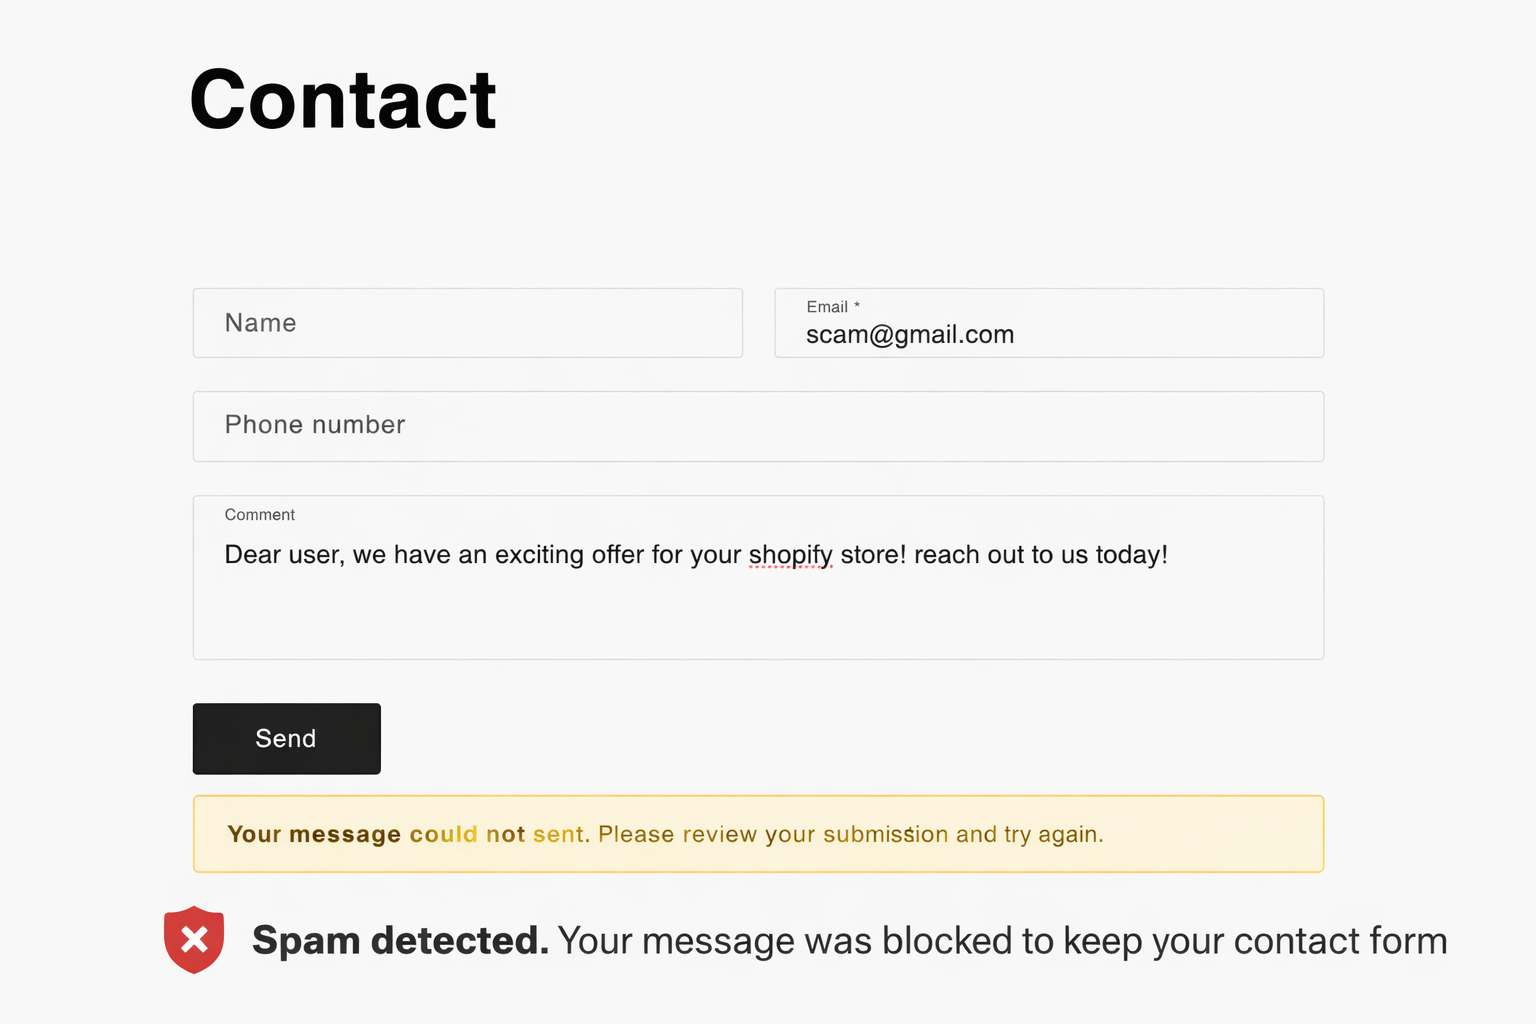
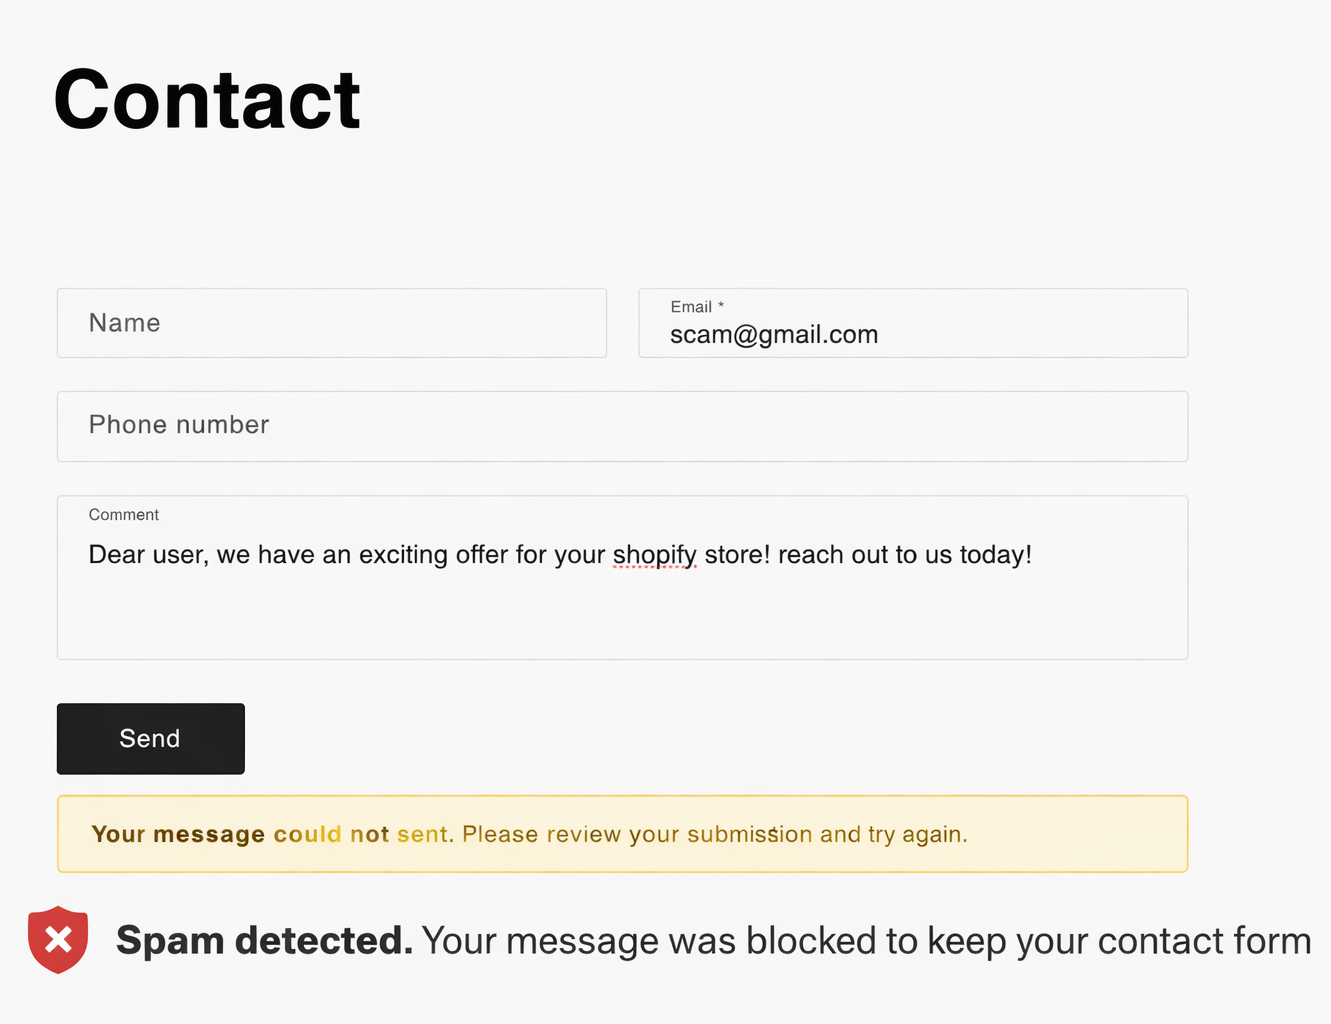
feat: Add theme extension onboarding guide and improve landing page layout
Adds a Setup Guide section to the admin dashboard with step-by-step
instructions and a deep link to the theme editor, meeting Shopify's
onboarding requirements for theme app extensions. Also improves the
landing page screenshot layout.

diff --git a/app/routes/app._index.tsx b/app/routes/app._index.tsx
@@ -164,6 +164,45 @@ export default function Index() {
         {enabled ? "Disable Protection" : "Enable Protection"}
       </s-button>
 
+      <s-section heading="Setup Guide">
+        <s-stack direction="block" gap="base">
+          <s-paragraph>
+            <strong>Step 1:</strong> Enable spam protection using the button
+            above.
+          </s-paragraph>
+          <s-paragraph>
+            <strong>Step 2:</strong> Add the FormGuard app embed to your theme.
+            Click the button below to open the theme editor, then ensure the
+            FormGuard toggle is turned on.
+          </s-paragraph>
+          <s-paragraph>
+            <strong>Step 3:</strong> (Optional) Add blocked keywords below to
+            filter specific words, phrases, or email addresses.
+          </s-paragraph>
+          <div style={{ marginTop: "8px" }}>
+            <s-button
+              variant="primary"
+              onClick={() =>
+                open(
+                  "shopify:admin/themes/current/editor?context=apps",
+                  "_top",
+                )
+              }
+            >
+              Open Theme Editor
+            </s-button>
+          </div>
+          <s-paragraph>
+            <s-text variant="subdued">
+              FormGuard works automatically once enabled. It adds invisible
+              protection to your contact form — no changes to your theme are
+              needed. To remove it, simply toggle the app embed off in the theme
+              editor.
+            </s-text>
+          </s-paragraph>
+        </s-stack>
+      </s-section>
+
       <s-section heading="Spam Protection">
         <s-paragraph>
           FormGuard protects your contact form with 3 layers: honeypot field,

diff --git a/app/routes/_index/route.tsx b/app/routes/_index/route.tsx
@@ -62,11 +62,6 @@ export default function App() {
           alt="FormGuard admin dashboard showing spam stats and blocked keywords"
           className={styles.screenshotLarge}
         />
-        <img
-          src="/blocked1.png"
-          alt="Contact form with spam submission being blocked"
-          className={styles.screenshotSmall}
-        />
       </section>
 
       {/* Features */}
@@ -95,6 +90,15 @@ export default function App() {
             is stopped before it reaches your inbox.
           </p>
         </div>
+      </section>
+
+      {/* Blocked form demo */}
+      <section className={styles.screenshots}>
+        <img
+          src="/blocked1.png"
+          alt="Contact form with spam submission being blocked"
+          className={styles.screenshotSmall}
+        />
       </section>
 
       {/* How it works */}

diff --git a/app/routes/_index/styles.module.css b/app/routes/_index/styles.module.css
@@ -77,10 +77,11 @@
 /* Screenshots */
 .screenshots {
   display: flex;
-  gap: 1.5rem;
-  justify-content: center;
+  flex-direction: column;
+  align-items: center;
+  gap: 2rem;
   padding: 2rem 1.5rem 3rem;
-  max-width: 900px;
+  max-width: 780px;
   margin: 0 auto;
 }
 
@@ -88,20 +89,17 @@
   border-radius: 12px;
   box-shadow: 0 4px 24px rgba(0, 0, 0, 0.08);
   border: 1px solid #e5e5e5;
-  object-fit: cover;
-  object-position: center;
+  width: 100%;
+  height: auto;
 }
 
 .screenshotLarge {
   composes: screenshot;
-  width: 55%;
-  max-height: 400px;
 }
 
 .screenshotSmall {
   composes: screenshot;
-  width: 40%;
-  max-height: 400px;
+  max-width: 480px;
 }
 
 /* Features */
